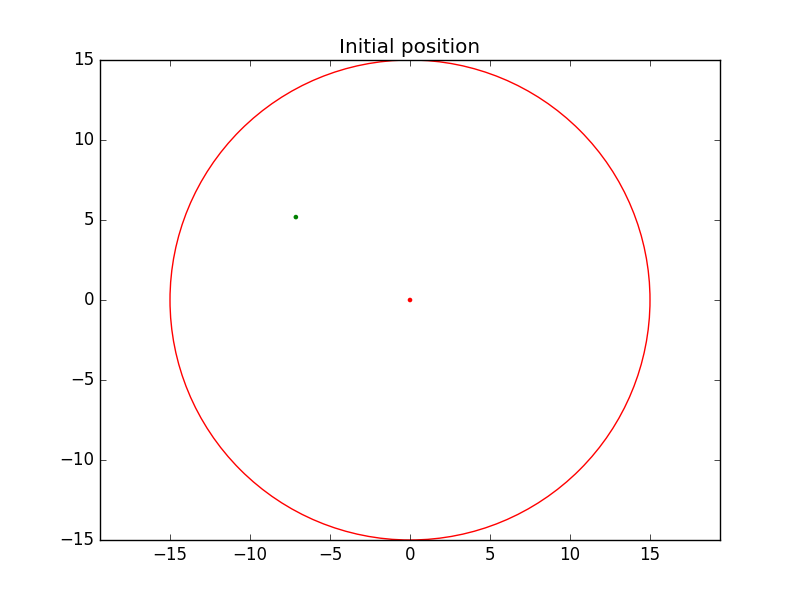
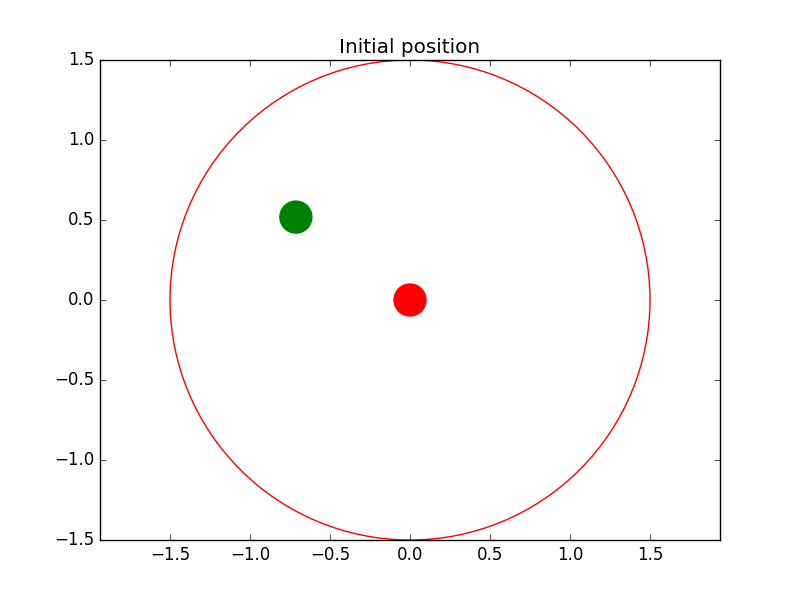
Ploter fully functional

diff --git a/ploter.py b/ploter.py
@@ -27,10 +27,8 @@ def plot_bodies(b1, b2, title='Position'):
 	c1 = Circle((b1.pos[0], b1.pos[1]), radius=b1.r, fill=False, color='g')
 	c2 = Circle((b2.pos[0], b2.pos[1]), radius=b2.r, fill=False, color='r')
 
-	ax.add_patch(c1)
-	ax.add_patch(c2)
-	ax.add_patch(p1)
-	ax.add_patch(p2)
+	for p in [c1, c2, p1, p2]:
+		ax.add_patch(p)
 
 	ax.autoscale_view()
 	if Plotter.live is True:
@@ -65,14 +63,12 @@ def plot_compare_paths(pos_rigid, pos_inertial):
 
 	fig, ax = plt.subplots(1)
 
-	plt.plot(*zip(*pos_rigid), color='r', label='rigid')
-	plt.plot(*zip(*pos_inertial), color='g', label='inertial')
+	plt.plot(*zip(*pos_rigid), color='r', label='rigid', alpha=0.8)
+	plt.plot(*zip(*pos_inertial), color='g', label='inertial', alpha=0.8)
 	ax.legend(loc='upper right')
-	ax.autoscale_view()
-	ax.relim()
 
-	p1 = Circle(pos_rigid[0], radius=0.1, fill=True, color='r')
-	p2 = Circle(pos_inertial[0], radius=0.1, fill=True, color='g')
+	p1 = Circle(pos_rigid[0], radius=ax.get_ylim()[0] / 50., fill=True, color='r', alpha=0.8)
+	p2 = Circle(pos_inertial[0], radius=ax.get_ylim()[0] / 50., fill=True, color='g', alpha=0.8)
 
 	for p in [p1, p2]:
 		ax.add_patch(p)
@@ -81,6 +77,7 @@ def plot_compare_paths(pos_rigid, pos_inertial):
 	plt.axis('equal')
 	plt.xlabel('x')
 	plt.ylabel('y')
+	plt.autoscale()
 
 	if Plotter.live is True:
 		plt.show()

diff --git a/run.py b/run.py
@@ -6,7 +6,7 @@ import copy
 
 it = 20
 bill_0 = Body(1., 0., [0., 0.], [1., 1.])
-ring_0 = Body(2., 15., [0., 0.], [0., 0.])
+ring_0 = Body(2., 1.5, [0., 0.], [0., 0.])
 
 init_angle(bill_0, ring_0, math.pi / 5.0)
 plot_bodies(bill_0, ring_0, 'Initial position')
